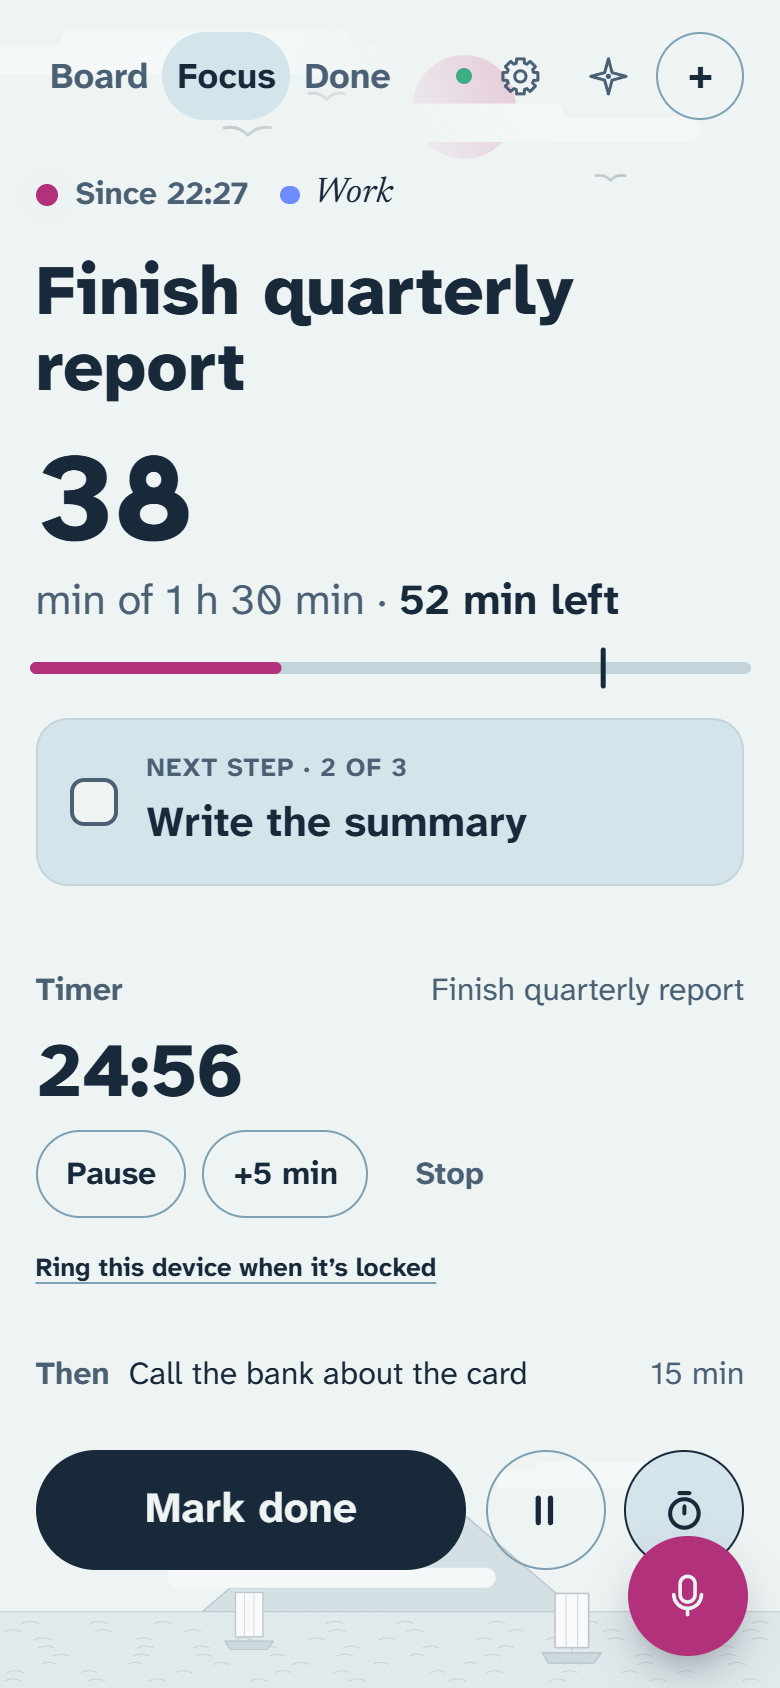
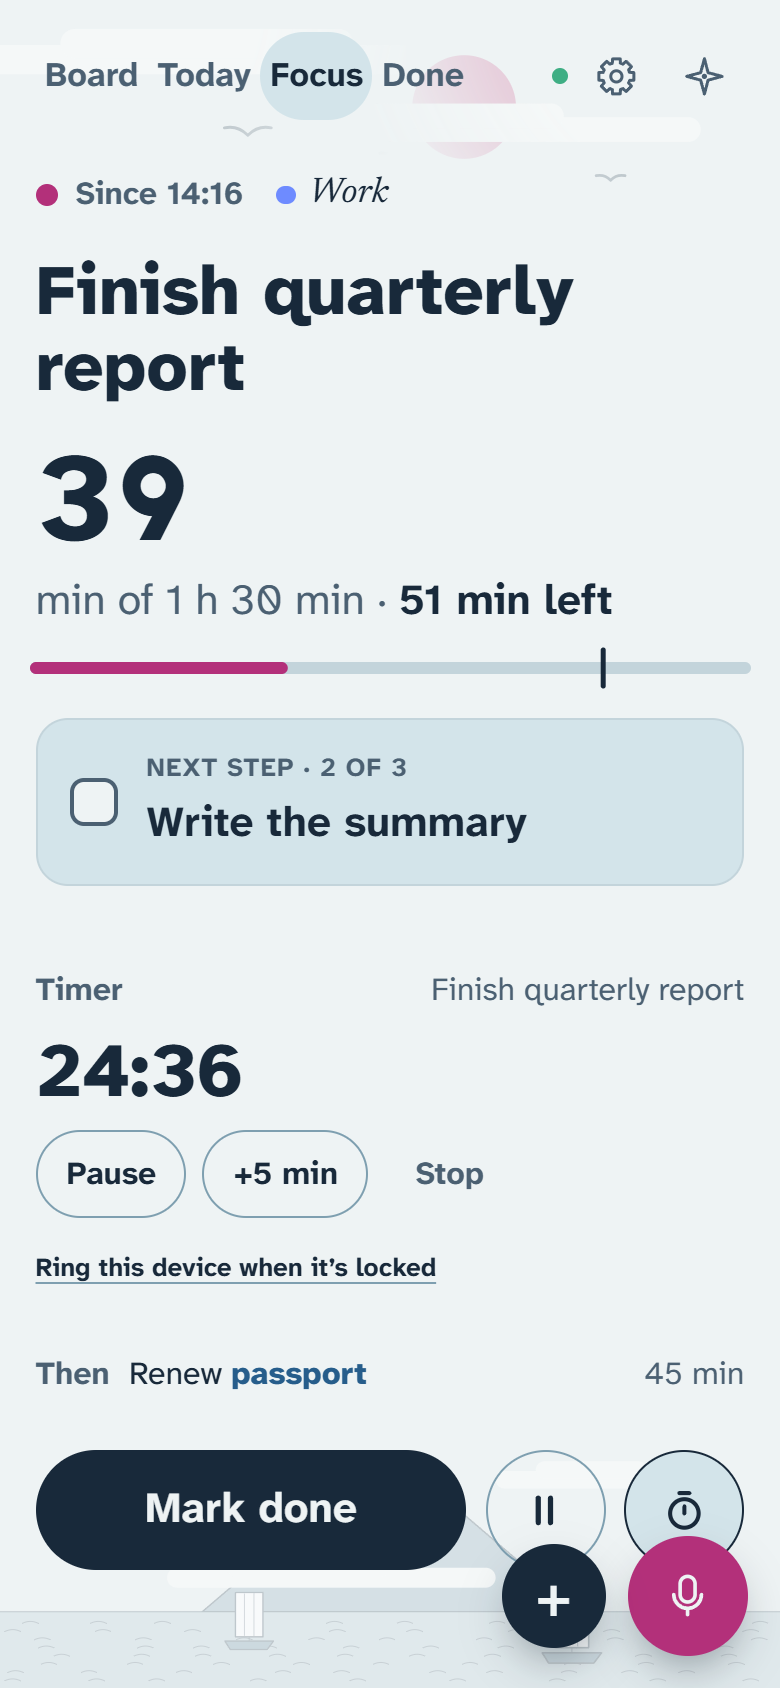
README screenshots: Today tab, bold key words, quick add
Retake the desktop board, phone board and Focus shots, and add a phone
shot of Today to the row under the feature list.

diff --git a/README.md b/README.md
@@ -36,9 +36,10 @@ change it through MCP or a REST API. Changes show up everywhere at once.
 - **Seven themes**, each with a woodblock-print landscape.
 
 <p>
-  <img src="docs/screenshots/phone-focus.png" width="250" alt="Focus on a phone: the task in progress, its next step and the timer">
-  <img src="docs/screenshots/phone-board.png" width="250" alt="Board on a phone, with a tab per project">
-  <img src="docs/screenshots/phone-voice-review.png" width="250" alt="A task drafted by voice">
+  <img src="docs/screenshots/phone-board.png" width="200" alt="Board on a phone, with a tab per project and key words in bold">
+  <img src="docs/screenshots/phone-today.png" width="200" alt="Today on a phone: main tasks, secondary ones and one carried over from yesterday">
+  <img src="docs/screenshots/phone-focus.png" width="200" alt="Focus on a phone: the task in progress, its next step and the timer">
+  <img src="docs/screenshots/phone-voice-review.png" width="200" alt="A task drafted by voice">
 </p>
 
 Desktop keys: **N** new task, **V** voice, **A** assistant, **B** / **T** / **F** / **D** to switch views.
